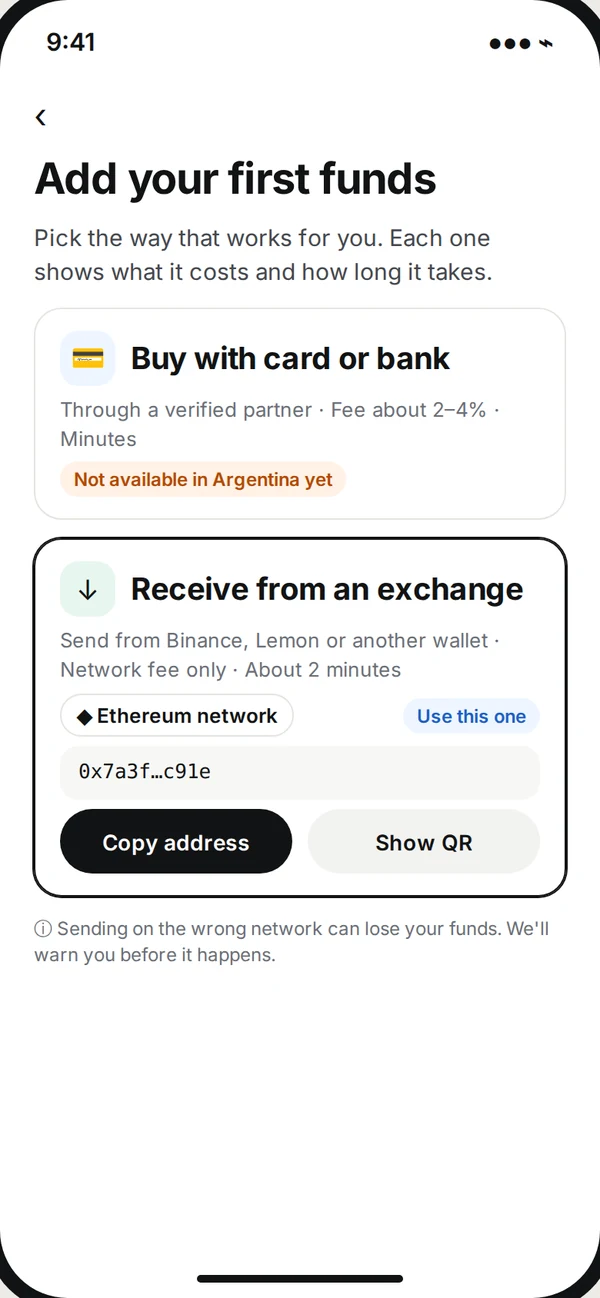
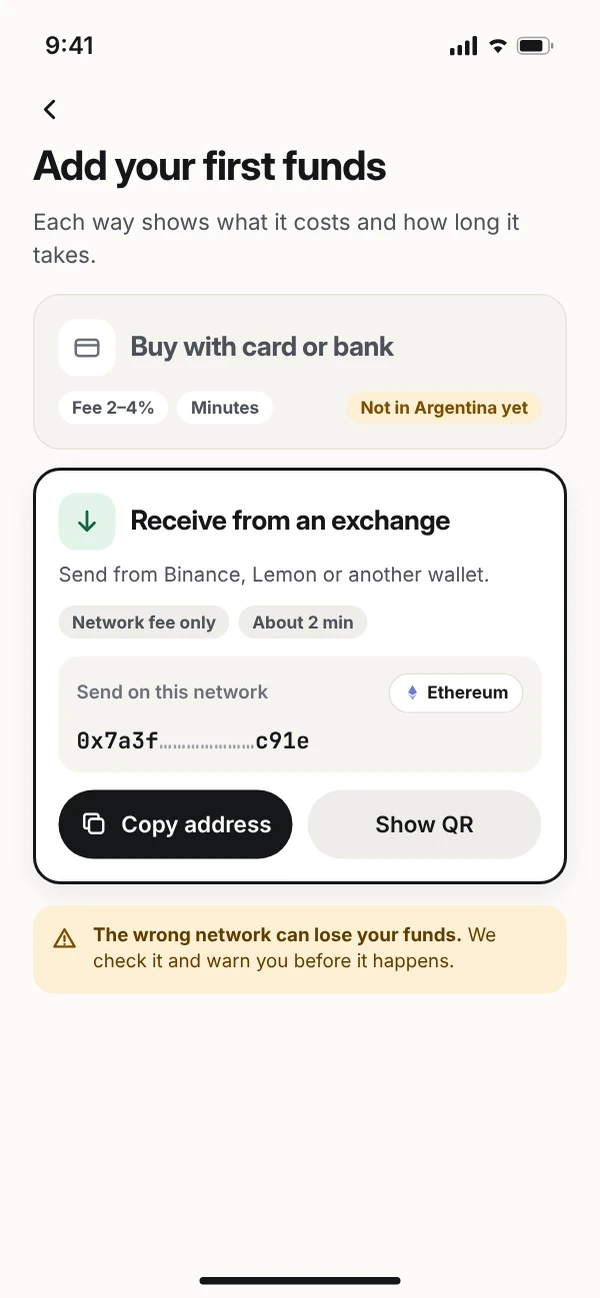
MetaMask: redesigned screens redrawn, hero rebuilt, pins realigned, two-tap alternative to hold-to-send
Claude-Session: https://claude.ai/code/session_01S3w2mkuKb4QhLec9tj741t

diff --git a/index.html b/index.html
@@ -9334,7 +9334,7 @@ function start() {
             <div class="ba2-arrow" aria-hidden="true"><svg viewBox="0 0 120 60"><path d="M6 40 C 36 6, 80 6, 110 30" fill="none" stroke="currentColor" stroke-width="3" stroke-linecap="round"/><path d="M98 20 L 112 31 L 96 38" fill="none" stroke="currentColor" stroke-width="3" stroke-linecap="round" stroke-linejoin="round"/></svg><span>redesign</span></div>
             <div class="ba2-side">
               <p class="ba2-label after">After</p>
-              <div class="ba2-phone after-bg"><img data-m="117" width="600" height="1298" loading="lazy" alt="Redesigned welcome comparing simple sign-in and recovery phrase"><button type="button" class="ba2-pin after" style="left:8%;top:22%" data-note="signin-after-1" aria-label="after note 1">1</button><button type="button" class="ba2-pin after" style="left:97%;top:36%" data-note="signin-after-2" aria-label="after note 2">2</button><button type="button" class="ba2-pin after" style="left:97%;top:53%" data-note="signin-after-3" aria-label="after note 3">3</button></div>
+              <div class="ba2-phone after-bg"><img data-m="117" width="600" height="1298" loading="lazy" alt="Redesigned welcome comparing simple sign-in and recovery phrase"><button type="button" class="ba2-pin after" style="left:8%;top:23%" data-note="signin-after-1" aria-label="after note 1">1</button><button type="button" class="ba2-pin after" style="left:97%;top:38%" data-note="signin-after-2" aria-label="after note 2">2</button><button type="button" class="ba2-pin after" style="left:97%;top:58%" data-note="signin-after-3" aria-label="after note 3">3</button></div>
               <ol class="ba2-notes"><li data-note="signin-after-1"><span class="ba2-num after">1</span>One sentence explains what a wallet is: no bank in between, nobody can freeze it or recover it for you.</li><li data-note="signin-after-2"><span class="ba2-num after">2</span>Simple sign-in, recommended to start, with how you recover access.</li><li data-note="signin-after-3"><span class="ba2-num after">3</span>Recovery phrase, labeled "most control", with the responsibility stated plainly.</li></ol>
             </div>
           </div>
@@ -9350,7 +9350,7 @@ function start() {
             <div class="ba2-arrow" aria-hidden="true"><svg viewBox="0 0 120 60"><path d="M6 40 C 36 6, 80 6, 110 30" fill="none" stroke="currentColor" stroke-width="3" stroke-linecap="round"/><path d="M98 20 L 112 31 L 96 38" fill="none" stroke="currentColor" stroke-width="3" stroke-linecap="round" stroke-linejoin="round"/></svg><span>redesign</span></div>
             <div class="ba2-side">
               <p class="ba2-label after">After</p>
-              <div class="ba2-phone after-bg"><img data-m="119" width="600" height="1298" loading="lazy" alt="Redesigned home with a zero balance described as normal, a three-step setup and high-risk features labeled"><button type="button" class="ba2-pin after" style="left:66%;top:16%" data-note="home-after-1" aria-label="after note 1">1</button><button type="button" class="ba2-pin after" style="left:92%;top:40%" data-note="home-after-2" aria-label="after note 2">2</button><button type="button" class="ba2-pin after" style="left:92%;top:64%" data-note="home-after-3" aria-label="after note 3">3</button></div>
+              <div class="ba2-phone after-bg"><img data-m="119" width="600" height="1298" loading="lazy" alt="Redesigned home with a zero balance described as normal, a three-step setup and high-risk features labeled"><button type="button" class="ba2-pin after" style="left:48%;top:19%" data-note="home-after-1" aria-label="after note 1">1</button><button type="button" class="ba2-pin after" style="left:96%;top:41%" data-note="home-after-2" aria-label="after note 2">2</button><button type="button" class="ba2-pin after" style="left:96%;top:64%" data-note="home-after-3" aria-label="after note 3">3</button></div>
               <ol class="ba2-notes"><li data-note="home-after-1"><span class="ba2-num after">1</span>$0.00 explained: "It's empty, which is normal."</li><li data-note="home-after-2"><span class="ba2-num after">2</span>Setup in three steps: protect, get your address, add funds.</li><li data-note="home-after-3"><span class="ba2-num after">3</span>Leverage and predictions wait until you have funds, labeled high risk.</li></ol>
             </div>
           </div>
@@ -9366,7 +9366,7 @@ function start() {
             <div class="ba2-arrow" aria-hidden="true"><svg viewBox="0 0 120 60"><path d="M6 40 C 36 6, 80 6, 110 30" fill="none" stroke="currentColor" stroke-width="3" stroke-linecap="round"/><path d="M98 20 L 112 31 L 96 38" fill="none" stroke="currentColor" stroke-width="3" stroke-linecap="round" stroke-linejoin="round"/></svg><span>redesign</span></div>
             <div class="ba2-side">
               <p class="ba2-label after">After</p>
-              <div class="ba2-phone after-bg"><img data-m="121" width="600" height="1298" loading="lazy" alt="Redesigned add funds with buy and receive paths, the right network and a warning"><button type="button" class="ba2-pin after" style="left:92%;top:31%" data-note="funds-after-1" aria-label="after note 1">1</button><button type="button" class="ba2-pin after" style="left:92%;top:54%" data-note="funds-after-2" aria-label="after note 2">2</button><button type="button" class="ba2-pin after" style="left:5%;top:75%" data-note="funds-after-3" aria-label="after note 3">3</button></div>
+              <div class="ba2-phone after-bg"><img data-m="121" width="600" height="1298" loading="lazy" alt="Redesigned add funds with buy and receive paths, the right network and a warning"><button type="button" class="ba2-pin after" style="left:96%;top:29%" data-note="funds-after-1" aria-label="after note 1">1</button><button type="button" class="ba2-pin after" style="left:96%;top:52%" data-note="funds-after-2" aria-label="after note 2">2</button><button type="button" class="ba2-pin after" style="left:4%;top:73%" data-note="funds-after-3" aria-label="after note 3">3</button></div>
               <ol class="ba2-notes"><li data-note="funds-after-1"><span class="ba2-num after">1</span>Every path shows its fee and time, and says when it isn't available in your country.</li><li data-note="funds-after-2"><span class="ba2-num after">2</span>Receive from a local exchange, with the exact network to use and your address.</li><li data-note="funds-after-3"><span class="ba2-num after">3</span>A warning before a wrong-network send can cost your funds.</li></ol>
             </div>
           </div>
@@ -9382,7 +9382,7 @@ function start() {
             <div class="ba2-arrow" aria-hidden="true"><svg viewBox="0 0 120 60"><path d="M6 40 C 36 6, 80 6, 110 30" fill="none" stroke="currentColor" stroke-width="3" stroke-linecap="round"/><path d="M98 20 L 112 31 L 96 38" fill="none" stroke="currentColor" stroke-width="3" stroke-linecap="round" stroke-linejoin="round"/></svg><span>redesign</span></div>
             <div class="ba2-side">
               <p class="ba2-label after">After</p>
-              <div class="ba2-phone after-bg"><img src="img/f1d6274cfc53fc.webp" width="600" height="1298" loading="lazy" decoding="async" alt="Redesigned confirmation after copying the address: a tip to send a small test amount, an offer of one notification when funds arrive, and a Not now button"><button type="button" class="ba2-pin after" style="left:96%;top:27%" data-note="send-after-1" aria-label="after note 1">1</button><button type="button" class="ba2-pin after" style="left:96%;top:38%" data-note="send-after-2" aria-label="after note 2">2</button><button type="button" class="ba2-pin after" style="left:96%;top:91%" data-note="send-after-3" aria-label="after note 3">3</button></div>
+              <div class="ba2-phone after-bg"><img src="img/f1d6274cfc53fc.webp" width="600" height="1298" loading="lazy" decoding="async" alt="Redesigned confirmation after copying the address: a tip to send a small test amount, an offer of one notification when funds arrive, and a Not now button"><button type="button" class="ba2-pin after" style="left:96%;top:26%" data-note="send-after-1" aria-label="after note 1">1</button><button type="button" class="ba2-pin after" style="left:96%;top:60%" data-note="send-after-2" aria-label="after note 2">2</button><button type="button" class="ba2-pin after" style="left:96%;top:93%" data-note="send-after-3" aria-label="after note 3">3</button></div>
               <ol class="ba2-notes"><li data-note="send-after-1"><span class="ba2-num after">1</span>The question waits until there is something to wait for: your first funds are on the way.</li><li data-note="send-after-2"><span class="ba2-num after">2</span>One notification, when the funds land. "No price alerts unless you ask."</li><li data-note="send-after-3"><span class="ba2-num after">3</span>"Not now" is a real button, the same size as "yes".</li></ol>
             </div>
           </div>
@@ -9433,7 +9433,7 @@ function start() {
         </figure>
         <figure>
           <button type="button" data-zoom aria-label="Enlarge: 3. a home that guides setup; high-risk features wait"><img data-m="127" width="600" height="1298" loading="lazy" alt="Redesigned home: a $0.00 balance described as normal, a three-step setup and trading features marked high risk"></button>
-          <figcaption>3. A home that guides setup; high-risk features wait.</figcaption>
+          <figcaption>3. A home that guides setup; high-risk features wait, locked and labelled.</figcaption>
         </figure>
         <figure>
           <button type="button" data-zoom aria-label="Enlarge: 4. add funds: paths, costs, times and the right network"><img data-m="128" width="600" height="1298" loading="lazy" alt="Redesigned add funds: buy with card or bank, or receive from an exchange with the right network, address and QR"></button>
@@ -9441,11 +9441,11 @@ function start() {
         </figure>
         <figure>
           <button type="button" data-zoom aria-label="Enlarge: 5. permission asked when it helps: when funds are on the way"><img data-m="129" width="600" height="1298" loading="lazy" alt="Redesigned confirmation: address copied, a tip to send a small test amount and an offer to be notified when funds arrive"></button>
-          <figcaption>5. Permission asked when it helps: when funds are on the way.</figcaption>
+          <figcaption>5. What happens next, and permission asked when it helps.</figcaption>
         </figure>
         <figure>
           <button type="button" data-zoom aria-label="Enlarge: 6. review before you send: fee, network check, first-time warning"><img data-m="130" width="600" height="1298" loading="lazy" alt="Redesigned send review: you send 20 USDC, network fee 42 cents, total, the network matched to the address, a first-time address warning and a hold-to-send button"></button>
-          <figcaption>6. Review before you send: fee, network check, first-time warning.</figcaption>
+          <figcaption>6. Review before you send: fee, network check, first-time warning, and two ways to confirm.</figcaption>
         </figure>
       </div>
       <p class="psy"><span class="psy-label">The psychology behind it</span><strong>Retrieval practice.</strong> Answering one question about a scam protects people better than reading a warning. Recalling an idea is what makes it stick.<cite>Roediger and Karpicke, 2006</cite></p>
@@ -9499,10 +9499,10 @@ function start() {
     </section>
 
     <section aria-labelledby="mm-fix">
-      <h2 id="mm-fix" data-short="My own gaps">What I'd fix in my own redesign</h2>
+      <h2 id="mm-fix" data-short="My own gaps">What I fixed, and what is still open</h2>
       <div class="prose">
         <ul>
-          <li><strong>"Hold to send" leaves people out.</strong> Pressing and holding is hard with a tremor, a switch device or voice control. It needs a second way to confirm that is just as deliberate: a tap, then a separate "Yes, send" step.</li>
+          <li><strong>"Hold to send" left people out.</strong> Pressing and holding is hard with a tremor, a switch device or voice control. My first version had only that. The screen now offers "Or confirm in two taps", just as deliberate and open to everyone.</li>
           <li><strong>The network check is a promise the screen can't always keep.</strong> An address looks the same on several networks. The design has to say "we can't verify this one" when that is true, not show a green tick.</li>
           <li><strong>I am not the first-timer.</strong> I already use crypto, so every finding here is what I think a beginner would feel. Five people who never have would correct me in an afternoon.</li>
         </ul>
